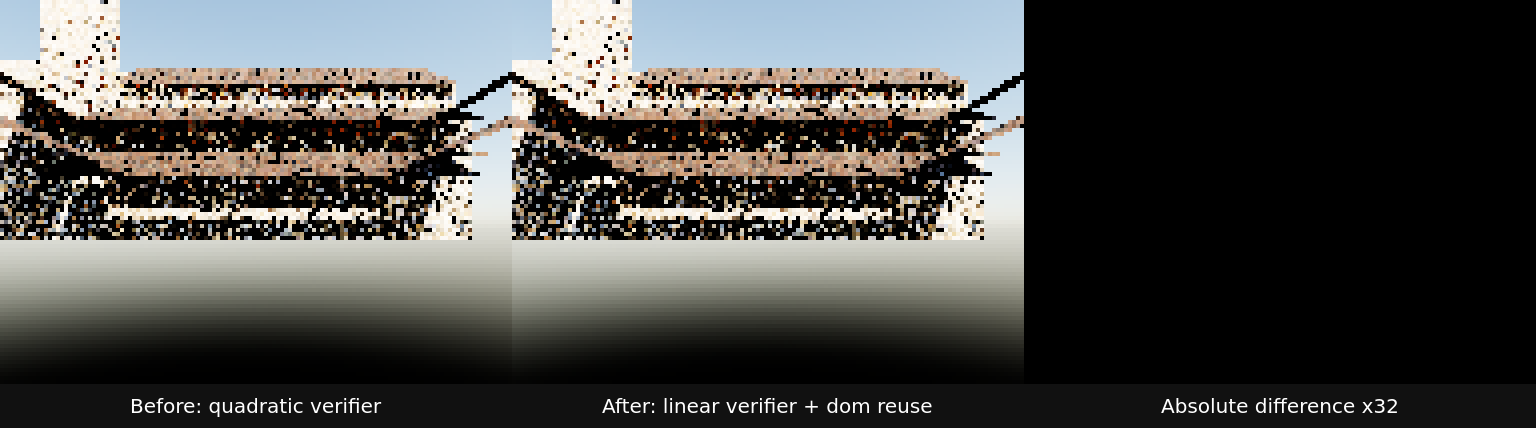
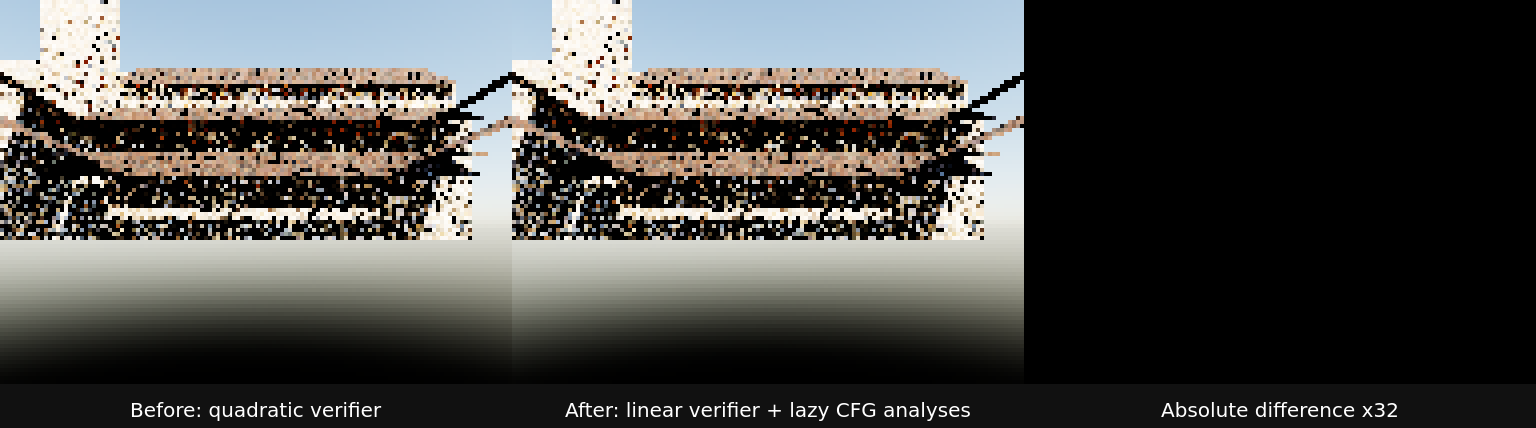
Document lazy XIR post-dominance validation

Changed region(s): [[0.3438, 0.9416, 0.625, 0.972], [0.75, 0.9112, 0.9062, 0.972], [0.0625, 0.9416, 0.25, 0.972]]

diff --git a/docs/validation/2026-07-29/backend-diagnostics/README.md b/docs/validation/2026-07-29/backend-diagnostics/README.md
@@ -17,8 +17,10 @@ alignment boundary:
   the historical `474.38 s` to `3.72 s`;
 - generic XIR use-list verification is now linear in operand/use-list count in
   Luisa `next@a7118069e`, and CFG-version-scoped construct-entry dominance
-  reuse follows in `next@8c7d1bf88`; together they reduce a matched
-  strict-native Vulkan shader-cache miss from `205.982 s` to `39.743 s`;
+  reuse follows in `next@8c7d1bf88`; lazy, observation-equivalent if-batch
+  post-dominance rebuilding follows in `next@ad4fdcedd`; together they reduce
+  a matched strict-native Vulkan shader-cache miss from `205.982 s` to
+  `35.0676 s`;
 - the current strict-native Vulkan cold JIT is dominated by formal XIR CFG
   restructuring, not by CMake compilation, SPIR-V validation, or rendering.
 
@@ -517,7 +519,7 @@ SPIR-V validation would save about 0.5%, while improving
 the existing structured-CFG invariants and regressions; replacing it with
 scene-specific shortcuts would be invalid.
 
-### Linear verifier and CFG-version analysis reuse
+### Linear verifier and lazy CFG analysis reuse
 
 The fine-grained trace showed that the apparent CFG cost was mostly a generic
 verifier complexity defect. Every instruction operand asked whether its exact
@@ -542,24 +544,25 @@ It changes the work to `O(use-list entries + membership queries)` without
 skipping or weakening validation. Detached `Use` nodes and nodes linked into
 the wrong `Value` remain errors.
 
-Three strict-native shader-cache-miss runs used the same scene, executable,
+Four strict-native shader-cache-miss runs used the same scene, executable,
 environment, trace mode, and warm RADV pipeline cache. The Psycles shader
 cache was disabled for each measurement and then restored, followed by a
 32-job rebuild:
 
-| Stage | Before | Linear verifier | + dominance reuse | Before→final |
-|---|---:|---:|---:|---:|
-| Reported shader JIT | `205.982 s` | `43.7438 s` | `39.7430 s` | `5.183×` |
-| AST to XIR | `15.8589 s` | `0.8458 s` | `0.8661 s` | `18.311×` |
-| `destructure-cfg` | `16.0259 s` | `0.8228 s` | `0.7897 s` | `20.294×` |
-| `restructure-cfg` | `133.1675 s` | `34.8932 s` | `30.7910 s` | `4.325×` |
-| Native SPIR-V emission boundary | `38.517 s` | `4.805 s` | `4.848 s` | `7.945×` |
-| SPIR-V validation | `1.177 s` | `1.165 s` | `1.224 s` | `0.962×` |
-| Complete process | `207.32 s` | `44.62 s` | `40.60 s` | `5.106×` |
+| Stage | Before | Linear verifier | + dominance reuse | + lazy post-dom | Before→final |
+|---|---:|---:|---:|---:|---:|
+| Reported shader JIT | `205.982 s` | `43.7438 s` | `39.7430 s` | `35.0676 s` | `5.874×` |
+| AST to XIR | `15.8589 s` | `0.8458 s` | `0.8661 s` | `0.8593 s` | `18.455×` |
+| `destructure-cfg` | `16.0259 s` | `0.8228 s` | `0.7897 s` | `0.8145 s` | `19.675×` |
+| `restructure-cfg` | `133.1675 s` | `34.8932 s` | `30.7910 s` | `26.0943 s` | `5.103×` |
+| Native SPIR-V emission boundary | `38.517 s` | `4.805 s` | `4.848 s` | `4.853 s` | `7.937×` |
+| SPIR-V validation | `1.177 s` | `1.165 s` | `1.224 s` | `1.232 s` | `0.955×` |
+| Complete process | `207.32 s` | `44.62 s` | `40.60 s` | `35.92 s` | `5.772×` |
 
 The earlier `240.23 s` profile included a `36.023 s` cold RADV pipeline
-creation, while the three matched runs above spent only `0.178 s`, `0.164 s`,
-and `0.165 s` respectively between SPIR-V validation and pipeline readiness.
+creation, while the four matched runs above spent only `0.178 s`, `0.164 s`,
+`0.165 s`, and approximately `0.168 s` respectively between SPIR-V
+validation and pipeline readiness.
 It is retained as historical stage context, not mixed into the controlled
 speedup.
 
@@ -594,12 +597,44 @@ production input, committed-CFG dominance builds fell to 11 and
 
 The corresponding operation-count regression creates 256 valid structured
 ifs in one immutable CFG version and requires exactly one construct-entry
-dominator build. All 48 `unit_xir` tests passed in parallel, including 197
-verifier assertions and 1,041 `restructure_cfg` assertions; all affected
-targets were built with `--parallel 32`.
+dominator build.
 
-The matched original, linear-verifier, and dominance-reuse PPM files all have
-SHA-256
+The remaining if-batch trace then exposed an independent eager-analysis
+defect. After every successful if rewrite, the old implementation rebuilt
+both dominance and post-dominance even when the next candidate could infer
+its merge from dominance and never read post-dominance. Luisa
+`next@ad4fdcedd` implements the following query protocol:
+
+> Dominance is refreshed after every CFG mutation. Post-dominance may remain
+> stale only until a candidate actually needs it; immediately before that
+> query, it is rebuilt for the current CFG version.
+
+This is observation-equivalent to eager rebuilding: every post-dominance
+query sees exactly the CFG version it would have seen before, while analyses
+that no query consumes are omitted. A stronger-looking shortcut was tested
+and rejected. Holding the initial batch post-dominator snapshot caused
+`restructure_roundtrips_loop_switch_nested_break_continue` to grow to 67
+blocks, violating its existing strict bound of fewer than 64. Newly inserted
+structural merge nodes can become the correct nearest merge, so an old-node
+post-dominance argument is insufficient. The threshold was not weakened and
+that experiment was not committed.
+
+On the production shader, total post-dominator builds fell from 5,276 to 376
+(`14.032×` fewer) and their nested time fell from `4.653498 s` to
+`0.194341 s` (`23.945×`). The if batches fell from `9.948389 s` to
+`5.320990 s` (`1.870×`), `restructure-cfg` fell from `30.791002 s` to
+`26.094309 s`, and full JIT fell from `39.7430 s` to `35.0676 s`.
+The committed-CFG report records 31 lazy if-batch post-dominator rebuilds.
+
+The operation-count regression uses 64 chained diamonds under a one-iteration
+budget. All merges remain inferable from the refreshed dominance tree, so it
+requires exactly zero post-mutation post-dominator rebuilds. All 48
+`unit_xir` tests passed in parallel, including 197 verifier assertions and
+1,042 `restructure_cfg` assertions; all affected targets were built with
+`--parallel 32`.
+
+The matched original, intermediate, and final lazy-analysis PPM files all
+have SHA-256
[1 lines of base64/hex data omitted]
 The following real triptych was opened at its original 1536×428 resolution.
 The source panels use 4× nearest-neighbor display scaling, and the third panel
@@ -610,17 +645,18 @@ is the absolute byte difference amplified 32×:
 The difference panel is completely black (`max channel difference = 0`), and
 both rendered panels show the same church/roof structure. The triptych
 SHA-256 is
[2 lines of base64/hex data omitted]
 This 128×96/1 spp run is deliberately a compiler and structural-semantic
 regression, not a Cycles image-quality or render-throughput acceptance.
 
-After both repairs, `restructure-cfg` still takes `30.7910 s`, or 77.48% of
-the remaining `39.7430 s` JIT. Its stable large costs are the main
-restructuring iterations (`10.1210 s`, including `9.9484 s` in if batches),
-the post-restructure fixed point (`11.5765 s`), and 5,276 post-dominator
-computations (`4.6535 s`). Unique construct-entry enforcement is no longer a
-material cost. These timers are nested and must not be added as independent
-totals. They define the next invariant-preserving optimization boundary.
+After all three repairs, `restructure-cfg` still takes `26.0943 s`, or 74.41%
+of the remaining `35.0676 s` JIT. Its stable large costs are now the
+post-restructure fixed point (`11.5917 s`) and main restructuring iterations
+(`5.4902 s`, including `5.3210 s` in if batches). Unique construct-entry
+enforcement and post-dominator rebuilding are no longer material costs.
+These timers are nested and must not be added as independent totals. The
+post-restructure fixed point is the next invariant-preserving optimization
+boundary.
 
 The complete machine-readable before/after record is
 [vulkan-xir-verifier-scaling.json](vulkan-xir-verifier-scaling.json).
